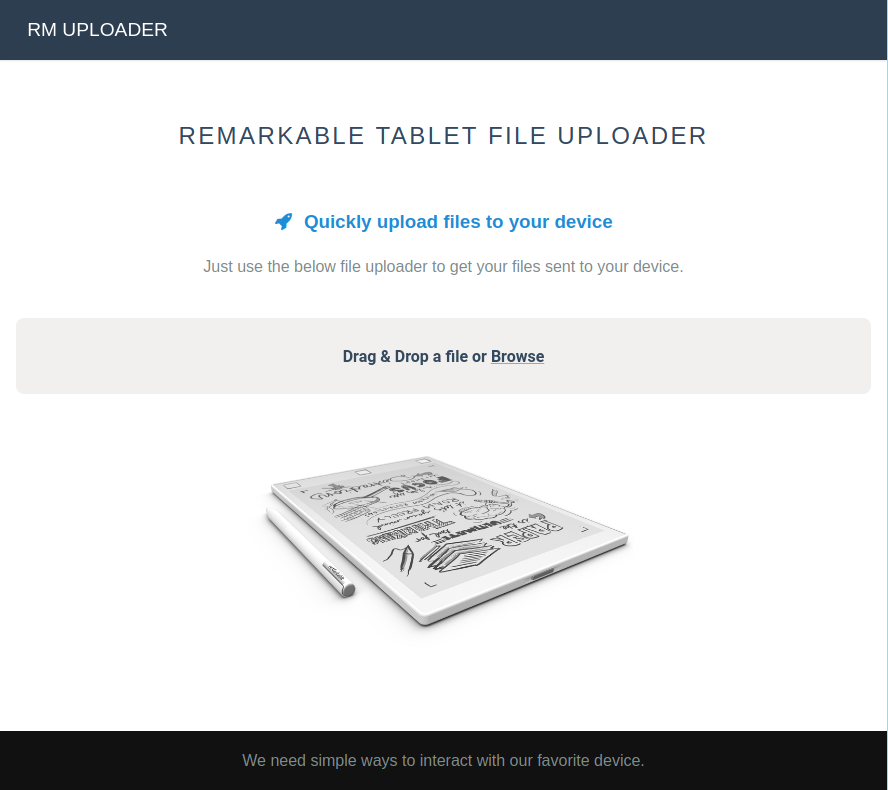
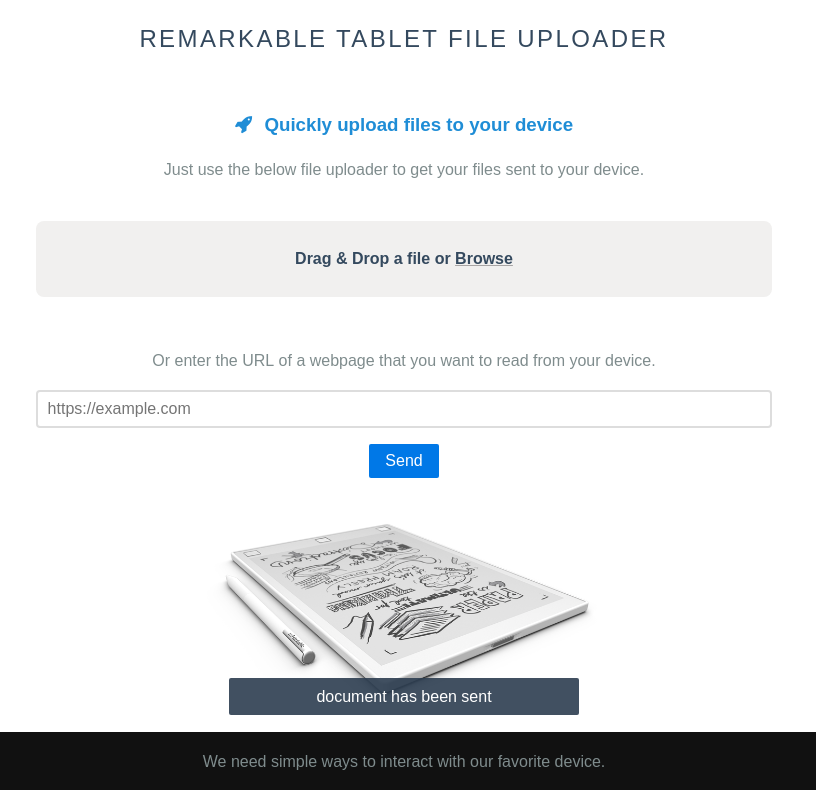
Implement the webpage feature

diff --git a/web/index.html b/web/index.html
@@ -19,7 +19,11 @@
     </div>
 
     <div class="content-wrapper">
-        <div class="content">
+        <div class="content wrapper">
+            {{ if . }}
+                <p id="toast">{{ . }}</p>
+            {{ end }}
+
             <h2 class="content-head is-center">Remarkable tablet file uploader</h2>
 
             <div class="pure-g">
@@ -35,9 +39,15 @@
 
             <div class="pure-g">
                 <div class="pure-u-1 pure-u-md-2-5">
-                    <form class="pure-form pure-form-stacked">
+                    <form method="post" action="/upload" class="pure-form pure-form-stacked is-center">
                         <fieldset>
                             <input id="file" type="file" name="file" />
+                        </fieldset>
+
+                        <fieldset>
+                            <p>Or enter the URL of a webpage that you want to export to your device (wkhtmltopdf is required).</p>
+                            <input type="url" name="url" placeholder="https://example.com">
+                            <button type="submit" class="pure-button pure-button-primary">Send</button>
                         </fieldset>
                     </form>
                 </div>

diff --git a/web/css/style.css b/web/css/style.css
@@ -182,3 +182,39 @@ label {
     }
 
 }
+
+/*
+ * -- Custom styles --
+ */
+.wrapper {
+    max-width: 768px;
+    margin-right: auto;
+    margin-left: auto;
+}
+
+#toast {
+    min-width: 350px;
+    margin-left: -175px;
+    background: rgba(45, 62, 80, 0.9);
+    color: #fff;
+    text-align: center;
+    border-radius: 2px;
+    padding: 5px;
+    position: fixed;
+    z-index: 1;
+    left: 50%;
+    bottom: 60px;
+    -webkit-animation: fadein 0.5s;
+    animation: fadein 0.5s;
+}
+
+/* Animations to fade the toast in */
+@-webkit-keyframes fadein {
+    from { bottom: 0; opacity: 0; }
+    to { bottom: 60px; opacity: 1; }
+}
+
+@keyframes fadein {
+    from { bottom: 0; opacity: 0; }
+    to { bottom: 60px; opacity: 1; }
+}

diff --git a/main.go b/main.go
@@ -6,8 +6,10 @@ import (
 	"io/ioutil"
 	"log"
 	"net/http"
+	"net/url"
 	"os"
 
+	"github.com/PuerkitoBio/goquery"
 	"github.com/google/uuid"
 	"github.com/juruen/rmapi/api.v2"
 	"github.com/juruen/rmapi/auth"
@@ -29,6 +31,7 @@ func newServer() (server, error) {
 		return s, fmt.Errorf("%s variable is not defined", codeEnv)
 	}
 
+	log.Println("Setting up authentication with the device...")
 	auth := auth.New()
 	auth.RegisterDevice(code)
 
@@ -50,48 +53,93 @@ func main() {
 	http.Handle("/img/", http.StripPrefix("/img/", http.FileServer(http.Dir("web/img/"))))
 	http.Handle("/css/", http.StripPrefix("/css/", http.FileServer(http.Dir("web/css/"))))
 
+	log.Println("Starting web server...")
 	if err := http.ListenAndServe(":8080", logRequest(http.DefaultServeMux)); err != nil {
 		panic(err)
 	}
 }
 
 func (s server) index(w http.ResponseWriter, r *http.Request) {
+	msg := r.FormValue("msg")
 	tmpl := template.Must(template.ParseFiles("web/index.html"))
-	tmpl.Execute(w, nil)
+	tmpl.Execute(w, msg)
 }
 
 func (s server) upload(w http.ResponseWriter, r *http.Request) {
 	switch r.Method {
 	case "POST":
-		file, header, err := r.FormFile("file")
-		if err != nil {
-			fmt.Fprintf(w, "%v", err)
-			return
-		}
-		defer file.Close()
-
+		// Defines a new UUID for the document to be uploaded.
 		id := uuid.New().String()
-		if err = s.uploadToRm(id, file, header.Filename); err != nil {
-			fmt.Fprintf(w, "%v", err)
+
+		if r.FormValue("file") == "" && r.FormValue("url") == "" {
+			http.Redirect(w, r, queryMsg("invalid form sent"), http.StatusFound)
 			return
 		}
 
-		fmt.Fprintf(w, id)
+		// if url is defined, we try to generate a PDF
+		// from the targeted website.
+		// Otherwise, we push the provided file.
+		url := r.FormValue("url")
+		if url != "" {
+			var err error
+			file, err := webpageAsPDF(url)
+			if err != nil {
+				http.Redirect(w, r, queryMsg(err.Error()), http.StatusFound)
+				return
+			}
+
+			name, err := titleFromURL(url)
+			if err != nil {
+				http.Redirect(w, r, queryMsg(err.Error()), http.StatusFound)
+				return
+			}
+
+			if err := s.uploadToRm(id, file, name); err != nil {
+				http.Redirect(w, r, queryMsg(err.Error()), http.StatusFound)
+				return
+			}
+
+			http.Redirect(w, r, queryMsg("document has been sent"), http.StatusFound)
+			return
+
+		} else {
+
+			fr, header, err := r.FormFile("file")
+			if err != nil {
+				http.Redirect(w, r, queryMsg(err.Error()), http.StatusFound)
+				return
+			}
+			defer fr.Close()
+
+			file, err := ioutil.ReadAll(fr)
+			if err != nil {
+				http.Redirect(w, r, queryMsg(err.Error()), http.StatusFound)
+				return
+			}
+
+			if err := s.uploadToRm(id, file, header.Filename); err != nil {
+				http.Redirect(w, r, queryMsg(err.Error()), http.StatusFound)
+				return
+			}
+
+			// send id as result
+			fmt.Fprintf(w, id)
+		}
 
 	case "DELETE":
 		id, err := ioutil.ReadAll(r.Body)
 		if err != nil {
-			fmt.Fprintf(w, "%v", err)
+			http.Redirect(w, r, queryMsg(err.Error()), http.StatusFound)
 			return
 		}
 
 		if err := s.deleteFromRm(string(id)); err != nil {
-			fmt.Fprintf(w, "%v", err)
+			http.Redirect(w, r, queryMsg(err.Error()), http.StatusFound)
 			return
 		}
 
 	default:
-		w.WriteHeader(http.StatusMethodNotAllowed)
+		http.Redirect(w, r, queryMsg("http method not supported"), http.StatusFound)
 		return
 	}
 
@@ -102,4 +150,29 @@ func logRequest(handler http.Handler) http.Handler {
 		log.Printf("%s %s %s\n", r.RemoteAddr, r.Method, r.URL)
 		handler.ServeHTTP(w, r)
 	})
+}
+
+// queryMsg returns a formatted url query string with
+// the msg parameter defined and encoded.
+func queryMsg(msg string) string {
+	return fmt.Sprintf("?msg=%s", url.QueryEscape(msg))
+}
+
+// titleFromURL parses an URL to return a
+// more friendly name.
+// The extension .pdf is added at the end.
+func titleFromURL(url string) (string, error) {
+	res, err := http.Get(url)
+	if err != nil {
+		return "", err
+	}
+
+	doc, err := goquery.NewDocumentFromReader(res.Body)
+	if err != nil {
+		return "", err
+	}
+
+	title := doc.Find("title").Text()
+
+	return fmt.Sprintf("%s.pdf", title), nil
 }

diff --git a/rm.go b/rm.go
@@ -3,14 +3,13 @@ package main
 import (
 	"fmt"
 	"io"
-	"io/ioutil"
 	"path/filepath"
 
 	"github.com/juruen/rmapi/archive"
 )
 
 // uploadToRm sends the file to the Remarkable device.
-func (s server) uploadToRm(id string, r io.Reader, name string) error {
+func (s server) uploadToRm(id string, file []byte, name string) error {
 	zip := archive.NewZip()
 	zip.UUID = id
 
@@ -19,18 +18,10 @@ func (s server) uploadToRm(id string, r io.Reader, name string) error {
 	switch ext {
 
 	case ".epub":
-		var err error
-		zip.Epub, err = ioutil.ReadAll(r)
-		if err != nil {
-			return err
-		}
+		zip.Epub = file
 		zip.Content.FileType = "epub"
 	case ".pdf":
-		var err error
-		zip.Pdf, err = ioutil.ReadAll(r)
-		if err != nil {
-			return err
-		}
+		zip.Pdf = file
 		zip.Content.FileType = "pdf"
 	default:
 		return fmt.Errorf("file does not have a supported extension")

diff --git a/webpage.go b/webpage.go
@@ -1,0 +1,24 @@
+package main
+
+import "github.com/SebastiaanKlippert/go-wkhtmltopdf"
+
+// webpageAsPDF fetches the html corresponding to a url
+// and then generate a PDF file of the desired website.
+func webpageAsPDF(url string) ([]byte, error) {
+	pdfg, err := wkhtmltopdf.NewPDFGenerator()
+	if err != nil {
+		return nil, err
+	}
+
+	page := wkhtmltopdf.NewPage(url)
+
+	pdfg.AddPage(page)
+
+	// Create PDF document in internal buffer
+	err = pdfg.Create()
+	if err != nil {
+		return nil, err
+	}
+
+	return pdfg.Bytes(), nil
+}

diff --git a/README.md b/README.md
@@ -2,6 +2,8 @@
 
 Web app to upload files to the Remarkable Tablet.
 
+## Upload PDF or EPUB
+
 It aims to provide a simple way to drag and drop PDF and EPUB files to your Remarkable Tablet
 from a Web interface. It can be useful when you don't have access to the official Remarkable application
 or if you are running a Linux operating system (which does not have an official app).
@@ -10,7 +12,12 @@ It is written in Go and it makes use of the latest `api.v2` and `archive` packag
  - github.com/juruen/rmapi/api.v2
  - github.com/juruen/rmapi/archive
 
-## How to launch it
+## Send a webpage from a URL
+
+This apps also provides an input to submit an URL. The webpage is crawled, converted into PDF and sent to the device.
+It uses wkhtmltopdf underneath so it should be installed for this feature to work.
+
+## How to launch the app
 
 Get a one time code at https://my.remarkable.com/connect/remarkable.
 Then launch it with Docker.
